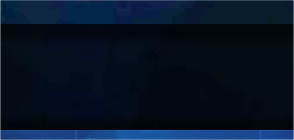
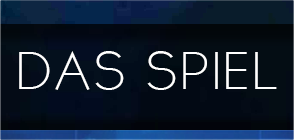
Bitte mach heile :(

Changed region(s): [[0.4898, 0.3714, 0.949, 0.6571], [0.0612, 0.3429, 0.4286, 0.6571], [0.4898, 0.3429, 0.5816, 0.5143]]

diff --git a/stylesheet.css b/stylesheet.css
@@ -3,7 +3,7 @@
     padding: 0;
     color: white;
     font-size: 1em;
-    box-sizing: border-box;
+/*    box-sizing: border-box;*/
 }
 
 span {
@@ -15,6 +15,74 @@ body {
     background-image: url(material/Website_Back.png);
     max-width: 1920px;
     height: 3000px;
+    position: relative;
+}
+
+.footerup {
+    display: flex;
+    flex-direction: row;
+    position: absolute;
+    bottom: 0px;
+}
+
+.footerup img {
+    display: flex;
+    flex-direction: row;
+    width: 100%;
+    justify-content: center;
+    position: relative;
+}
+
+.footerup ul {
+    position: absolute;
+    bottom: 15%;
+    width: 100%;
+    display: flex;
+    flex-direction: row;
+    justify-content: center;
+    list-style-type: none;
+}
+
+.footerup li {
+    display: flex;
+    flex-direction: row;
+    justify-content: center;
+    align-items: center;
+    font-size: 1.5em;
+    width: 16.66%;
+    border-left: 1px solid white;
+}
+
+.Discord {
+    display: flex;
+    flex-direction: row;
+    width: 20%;
+    transition: transform .2s;
+}
+
+.Discord:hover {
+    transform: scale(1.2);
+}
+
+.Twitter {
+    display: flex;
+    flex-direction: row;
+    width: 20%;
+    transition: transform .2s;
+}
+
+.Twitter:hover {
+    transform: scale(1.2);
+}
+
+.footerup p {
+    display: flex;
+    flex-direction: row;
+    justify-content: center;
+    width: 100%;
+    top: 18%;
+    position: absolute;
+    z-index: 1;
 }
 
 .head {
@@ -40,7 +108,6 @@ body {
 }
 
 .overhead {
-    max-width: 382px;
     height: 5vh;
     display: flex;
     flex-direction: row;
@@ -50,9 +117,45 @@ body {
     margin-left: 5px;
     position: relative;
     display: flex;
+}
+
+.nav {
+    border: 1px solid green;
+    display: flex;
+    flex-direction: row;
     width: 100%;
 }
 
+.nav ul {
+    width: 100%;
+    display: flex;
+    flex-direction: row;
+    justify-content: center;
+    list-style-type: none;
+}
+
+.nav li {
+    display: flex;
+    flex-direction: row;
+    justify-content: center;
+    align-items: center;
+    font-size: 1.5em;
+    width: 500%;
+    border-left: 1px solid white;
+}
+
+.nav p {
+    display: flex;
+    flex-direction: row;
+    justify-content: center;
+    width: 100%;
+}
+
+.nav ul img {
+    width: 40%;
+}
+
+/*
 .nav {
     border: 1px solid green;
     margin-top: 20px;
@@ -71,11 +174,20 @@ body {
 .nav ul img {
     width: 100%;
 }
+*/
+
+.Tab1 {
+    position: relative;
+}
+
+.Tab1:hover {
+    position: 
+}
 
 .news {
     border: 1px solid yellow;
     margin: 10px 60px 0px 60px;
-    width: 100%;
+    width: 93.2.3%;
     display: flex;
     flex-wrap: wrap;
     justify-content: center;
@@ -83,7 +195,7 @@ body {
 
 .newsmain {
     border: 1px solid green;
-    margin: 10px 5px 7px 0px;
+    margin: 10px 5px 0px 0px;
     width: 930px;
     height: 100%;
     position: relative;
@@ -93,8 +205,9 @@ body {
 
 .textmain {
     position: absolute;
-    top: 502px;
-    left: 10px;
+    font-family: TYPOGRAPH PRO;
+    top: 87%;
+    left: 2%;
 }
 
 .newsmain ul {
@@ -107,8 +220,8 @@ body {
 
 .newsside {
     border: 1px solid purple;
-    margin: 10px 0px 7px 0px;
-    width: 461px;
+    margin: 10px 0px 0px 0px;
+    width: 462px;
     position: relative;
     break-after: always;
     page-break-after: always;
@@ -133,7 +246,7 @@ body {
 
 .newsdown {
     border: 1px solid purple;
-    margin: 10px 0px 10px 0px;
+    margin: 5px 0px 10px 0px;
     position: relative;
     width: 1400px;
     clear:both;
@@ -151,19 +264,19 @@ body {
 
 .newsdown1 {
     height: 100%;
-    margin-right: 3.55px;
+    margin-right: 3px;
 }
 
 .newsdown2 {
     height: 100%;
-    margin-left: 3.55px;
-    margin-right: 3.55px;
+    margin-left: 3px;
+    margin-right: 3px;
     
 }
 
 .newsdown3 {
     height: 100%;
-    margin-left: 3.55px;
+    margin-left: 3px;
 }
 
 .newslist {
@@ -209,3 +322,4 @@ body {
     height: 91%;
     margin: 10px 10px 10px 10px
 }
+

diff --git a/index.html b/index.html
@@ -28,12 +28,23 @@
         <div class="nav">
             <nav>
                 <ul>
+                    <li><div class="Logo"><a href="home"><img src="material/News.png" alt="Selfhtml"></a></div></li>
+                    <li><div class="Logo"><a href="home"><img src="material/News.png" alt="Selfhtml"></a></div></li>
+                    <li><div class="Logo"><a href="home"><img src="material/Home.png" alt="Selfhtml"></a></div></li>
+                    <li><div class="Logo"><a href="home"><img src="material/News.png" alt="Selfhtml"></a></div></li>
+                    <li><div class="Logo"><a href="home"><img src="material/News.png" alt="Selfhtml"></a></div></li>
+                    
+                    
+                    
+                    
+<!--
                     <li><div class="Logo"><a href="home"><img src="material/Eins.png" alt="Selfhtml"></a></div></li>
-                    <li><div class="Logo"><a href="news"><img src="material/Zwei.png" alt="Selfhtml"><div class="News"></div></a></div></li>
+                    <li><div class="Tab1"><a href="news"><img src="material/Zwei.png" alt="Selfhtml"><div class="News"></div></a></div></li>
                     <li><div class="Logo"><a href="spiel"><img src="material/Drei.png" alt="Selfhtml"><div class="News"></div></a></div></li>
                     <li><div class="Logo"><a href="changes"><img src="material/Vier.png" alt="Selfhtml"><div class="News"></div></a></div></li>
                     <li><div class="Logo"><a href="team"><img src="material/Fuenf.png" alt="Selfhtml"><div class="News"></div></a></div></li>
                     <li><div class="Logo"><a href="support"><img src="material/sechs.png" alt="Selfhtml"><div class="News"></div></a></div></li>
+-->
                 </ul>
             </nav>
         </div>
@@ -81,7 +92,25 @@
                  <a href="index.html"> » Mehr anzeigen </a>
         </p>
         </div>
-        
+</div>
+
+<div class="footerup">
+    <div class="footerIMG">
+        <p>©2018 VOLIX UG, ALLE RECHTE VORBEHALTEN</p>
+    </div>
+        <img src="material/footer.png" alt="Selfhtml">
+    <ul>
+        <li><div class="Discord"><a href="https://discord.gg/GfQXwjT"><img src="material/DiscordLogo.png" alt="Selfhtml"></a></div>
+                <li><a href="">IMPRESSUM</a></li>
+                <li><a href="">SUPPORT</a></li>
+                <li><a href="">JETZT BEWERBEN</a></li>
+                <li><a href="">KONTAKT</a></li>
+        <li><div class="Twitter"><a href="https://twitter.com/bellazarpg"><img src="material/TwitterLogo.png" alt="Selfhtml"></a></div>
+    </ul>
+</div>
+    
+<div class="footer">
+    
 </div>
     
 </body>
